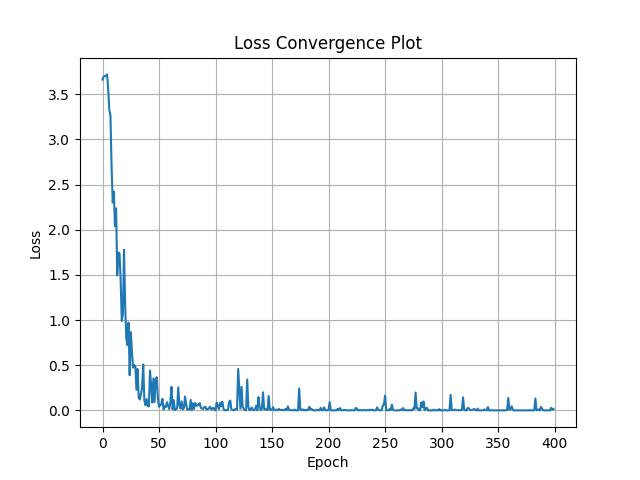
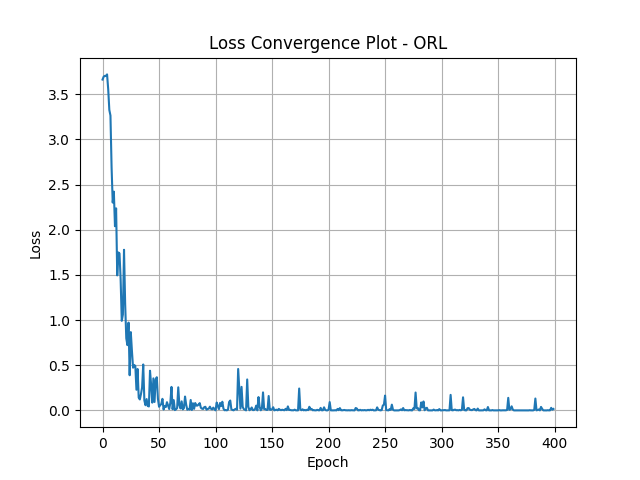
orl update

Changed region(s): [[0.3125, 0.0625, 0.6875, 0.125]]

diff --git a/script/stage_3_script/Jeslyn/script_resnet_orl.py b/script/stage_3_script/Jeslyn/script_resnet_orl.py
@@ -60,9 +60,9 @@ if 1:
     # --- Loss Convergence Plot -------
     plt.figure()
     plt.plot(method_obj.historical_loss)
-    plt.xlabel('Batch iteration (x10)')
+    plt.xlabel('Epoch')
     plt.ylabel('Loss')
-    plt.title('ResNet Loss Convergence Plot')
+    plt.title('ResNet18 Loss Convergence Plot - ORL')
     plt.grid(True)
 
     plt.tight_layout()

diff --git a/script/stage_3_script/Jeslyn/script_orl.py b/script/stage_3_script/Jeslyn/script_orl.py
@@ -63,7 +63,7 @@ if 1:
     plt.plot(method_obj.historical_loss)
     plt.xlabel('Epoch')
     plt.ylabel('Loss')
-    plt.title('Loss Convergence Plot')
+    plt.title('Loss Convergence Plot - ORL')
     plt.grid(True)
     plt.savefig('../../../result/stage_3_result/Jeslyn/loss_convergence.png')
     plt.show()
